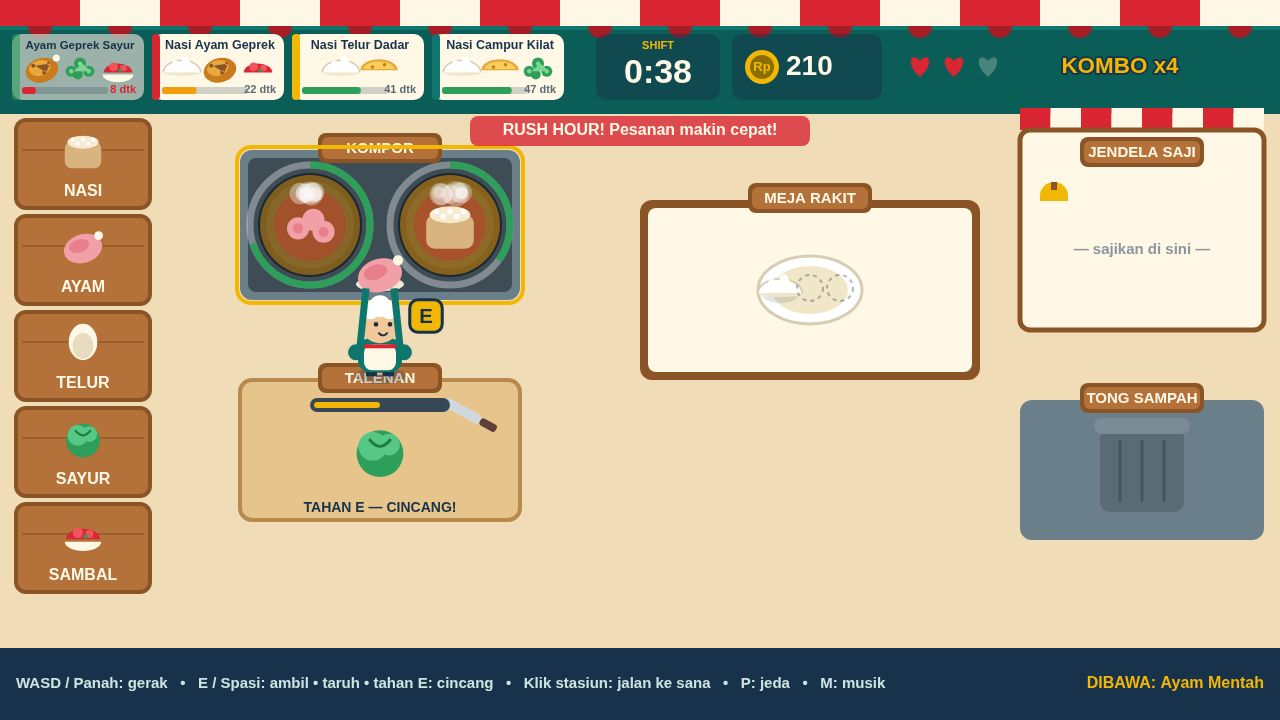
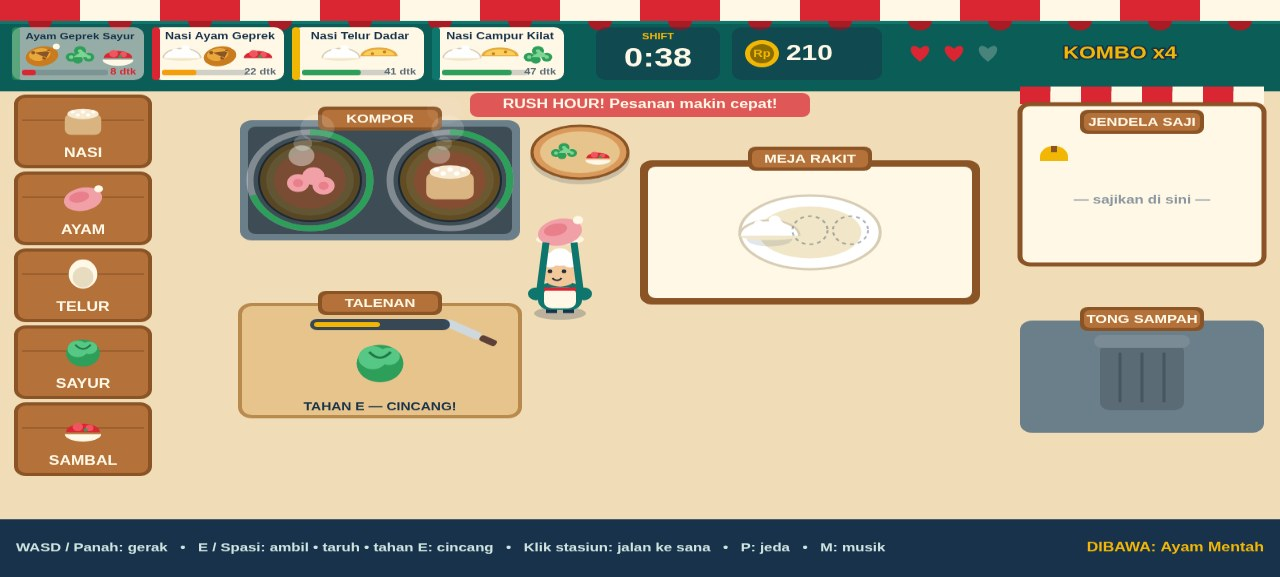
Dapur Kilat v2 — cover/rush polish

diff --git a/game/src/render.js b/game/src/render.js
@@ -209,6 +209,13 @@ function drawStove(ctx, state, nearId, t) {
   ctx.fillStyle = '#3d4c55';
   rr(ctx, s.x + 8, s.y + 8, s.w - 16, s.h - 16, 8);
   ctx.fill();
+  // highlight BEFORE the sign, so its top edge never strikes through the label
+  if (near) {
+    ctx.strokeStyle = '#f2b705';
+    ctx.lineWidth = 4;
+    rr(ctx, s.x - 3, s.y - 3, s.w + 6, s.h + 6, 14);
+    ctx.stroke();
+  }
   drawStationSign(ctx, s.x + s.w / 2, s.y - 2, 'KOMPOR');
   state.burners.forEach((b, i) => {
     const burner = s.burners[i];
@@ -241,12 +248,6 @@ function drawStove(ctx, state, nearId, t) {
       textOutline(ctx, 'HANGUS!', burner.x, burner.y - burner.r - 16, 15, '#ff6b6b', '#17324a');
     }
   });
-  if (near) {
-    ctx.strokeStyle = '#f2b705';
-    ctx.lineWidth = 4;
-    rr(ctx, s.x - 3, s.y - 3, s.w + 6, s.h + 6, 14);
-    ctx.stroke();
-  }
 }
 
 function drawBoard(ctx, state, nearId, t) {
@@ -259,6 +260,13 @@ function drawBoard(ctx, state, nearId, t) {
   ctx.lineWidth = 4;
   rr(ctx, b.x, b.y, b.w, b.h, 12);
   ctx.stroke();
+  // highlight BEFORE the sign, so its top edge never strikes through the label
+  if (near) {
+    ctx.strokeStyle = '#f2b705';
+    ctx.lineWidth = 4;
+    rr(ctx, b.x - 3, b.y - 3, b.w + 6, b.h + 6, 14);
+    ctx.stroke();
+  }
   drawStationSign(ctx, b.x + b.w / 2, b.y - 2, 'TALENAN');
   // knife
   ctx.save();
@@ -283,12 +291,6 @@ function drawBoard(ctx, state, nearId, t) {
     text(ctx, 'TAHAN E — CINCANG!', b.cx, b.cy + 58, 14, '#17324a');
   } else if (state.board.state === 'done') {
     textOutline(ctx, 'SIAP DIAMBIL!', b.cx, b.cy + 58, 14, '#7ed491', '#17324a');
-  }
-  if (near) {
-    ctx.strokeStyle = '#f2b705';
-    ctx.lineWidth = 4;
-    rr(ctx, b.x - 3, b.y - 3, b.w + 6, b.h + 6, 14);
-    ctx.stroke();
   }
 }
 
@@ -324,21 +326,23 @@ function drawAssembly(ctx, state, nearId, t) {
   ctx.fillStyle = PALETTE.cream;
   rr(ctx, a.x + 8, a.y + 8, a.w - 16, a.h - 16, 8);
   ctx.fill();
-  drawStationSign(ctx, a.x + a.w / 2, a.y - 2, 'MEJA RAKIT');
-  drawPlate(ctx, a.plateX, a.plateY, state.plate, 1);
-  const complete = plateCompletesRecipe(state.plate);
-  if (complete) {
-    const pulse = 0.6 + 0.4 * Math.sin(t * 5);
-    ctx.strokeStyle = 'rgba(46,158,91,' + pulse + ')';
-    ctx.lineWidth = 5;
-    ctx.beginPath(); ctx.ellipse(a.plateX, a.plateY, 62, 42, 0, 0, Math.PI * 2); ctx.stroke();
-    textOutline(ctx, 'SIAP DISAJIKAN!', a.plateX, a.plateY + 58, 16, '#2e9e5b', '#fff8e7');
-  }
+  // highlight BEFORE the sign, so its top edge never strikes through the label
   if (near) {
     ctx.strokeStyle = '#f2b705';
     ctx.lineWidth = 4;
     rr(ctx, a.x - 3, a.y - 3, a.w + 6, a.h + 6, 14);
     ctx.stroke();
+  }
+  drawStationSign(ctx, a.x + a.w / 2, a.y - 2, 'MEJA RAKIT');
+  // bigger plate (1.35x) so the mid-assembly dish reads clearly as the hero
+  drawPlate(ctx, a.plateX, a.plateY, state.plate, 1.35);
+  const complete = plateCompletesRecipe(state.plate);
+  if (complete) {
+    const pulse = 0.6 + 0.4 * Math.sin(t * 5);
+    ctx.strokeStyle = 'rgba(46,158,91,' + pulse + ')';
+    ctx.lineWidth = 5;
+    ctx.beginPath(); ctx.ellipse(a.plateX, a.plateY, 84, 57, 0, 0, Math.PI * 2); ctx.stroke();
+    textOutline(ctx, 'SIAP DISAJIKAN!', a.plateX, a.plateY + 66, 16, '#2e9e5b', '#fff8e7');
   }
 }
 
@@ -357,6 +361,13 @@ function drawWindow(ctx, state, nearId, t) {
   ctx.lineWidth = 5;
   rr(ctx, w.x, w.y, w.w, w.h, 10);
   ctx.stroke();
+  // highlight BEFORE the sign, so its top edge never strikes through the label
+  if (near) {
+    ctx.strokeStyle = '#f2b705';
+    ctx.lineWidth = 4;
+    rr(ctx, w.x - 3, w.y - 3, w.w + 6, w.h + 6, 12);
+    ctx.stroke();
+  }
   drawStationSign(ctx, w.x + w.w / 2, w.y + 22, 'JENDELA SAJI');
   // service bell
   ctx.fillStyle = '#f2b705';
@@ -374,12 +385,6 @@ function drawWindow(ctx, state, nearId, t) {
   } else {
     text(ctx, '— sajikan di sini —', w.plateX, w.plateY, 15, '#8a97a0');
   }
-  if (near) {
-    ctx.strokeStyle = '#f2b705';
-    ctx.lineWidth = 4;
-    rr(ctx, w.x - 3, w.y - 3, w.w + 6, w.h + 6, 12);
-    ctx.stroke();
-  }
 }
 
 function drawTrash(ctx, state, nearId) {
@@ -388,6 +393,13 @@ function drawTrash(ctx, state, nearId) {
   ctx.fillStyle = PALETTE.steelDark;
   rr(ctx, tr.x, tr.y, tr.w, tr.h, 12);
   ctx.fill();
+  // highlight BEFORE the sign, so its top edge never strikes through the label
+  if (near) {
+    ctx.strokeStyle = '#f2b705';
+    ctx.lineWidth = 4;
+    rr(ctx, tr.x - 3, tr.y - 3, tr.w + 6, tr.h + 6, 14);
+    ctx.stroke();
+  }
   drawStationSign(ctx, tr.x + tr.w / 2, tr.y - 2, 'TONG SAMPAH');
   // bin
   ctx.fillStyle = '#5b6b76';
@@ -401,12 +413,29 @@ function drawTrash(ctx, state, nearId) {
   for (let i = -1; i <= 1; i++) {
     ctx.beginPath(); ctx.moveTo(tr.cx + i * 22, tr.cy - 30); ctx.lineTo(tr.cx + i * 22, tr.cy + 32); ctx.stroke();
   }
-  if (near) {
-    ctx.strokeStyle = '#f2b705';
-    ctx.lineWidth = 4;
-    rr(ctx, tr.x - 3, tr.y - 3, tr.w + 6, tr.h + 6, 14);
-    ctx.stroke();
-  }
+}
+
+// ---------- prep board: fills the bare strip between stove and assembly ----------
+// A small round wooden board with chopped veg + a bowl of sambal, sitting on the
+// floor in the gap (x 520..640). Decor only — the chef walks past it, never on it
+// in the staged shots; drawn under the chef like any floor prop.
+function drawPrepBoard(ctx) {
+  const cx = 580;
+  const cy = 190;
+  // soft shadow so it sits on the floor
+  ctx.fillStyle = 'rgba(23,50,74,0.18)';
+  ctx.beginPath(); ctx.ellipse(cx, cy + 6, 50, 34, 0, 0, Math.PI * 2); ctx.fill();
+  // round wooden board
+  ctx.fillStyle = '#d99a5b';
+  ctx.beginPath(); ctx.ellipse(cx, cy, 48, 33, 0, 0, Math.PI * 2); ctx.fill();
+  ctx.strokeStyle = '#8a5426';
+  ctx.lineWidth = 3;
+  ctx.beginPath(); ctx.ellipse(cx, cy, 48, 33, 0, 0, Math.PI * 2); ctx.stroke();
+  ctx.fillStyle = '#e8c48d';
+  ctx.beginPath(); ctx.ellipse(cx, cy, 40, 26, 0, 0, Math.PI * 2); ctx.fill();
+  // chopped veg on the left half, small bowl of sambal on the right
+  drawFood(ctx, 'sayur-potong', cx - 16, cy - 2, 20);
+  drawFood(ctx, 'sambal', cx + 18, cy + 4, 18);
 }
 
 // ---------- chef ----------
@@ -720,6 +749,7 @@ export function drawFrame(ctx, state, t) {
   ctx.fillStyle = PALETTE.wall;
   ctx.fillRect(0, 0, CANVAS_W, CANVAS_H);
   drawFloor(ctx);
+  drawPrepBoard(ctx);
   const near = state.screen === 'playing' ? nearestStation(state) : null;
   const nearId = near ? near.id : null;
   drawCrates(ctx, state, nearId, t);

diff --git a/game/src/shots.js b/game/src/shots.js
@@ -72,11 +72,13 @@ export function applyShot(state, shot) {
     ];
     state.plate = ['nasi-matang'];
     state.windowPlate = null;
-    state.chef.x = 380;
-    state.chef.y = 350;
-    state.chef.tx = 380;
-    state.chef.ty = 350;
-    state.chef.dir = 1;
+    // chef in the open gap right of the stove, facing it: the carried chicken
+    // no longer overlaps the stove body, and no station label is hidden.
+    state.chef.x = 560;
+    state.chef.y = 365;
+    state.chef.tx = 560;
+    state.chef.ty = 365;
+    state.chef.dir = -1;
     state.carried = 'ayam-mentah';
     state.burners[0] = { item: 'ayam-potong', progress: 0.7, state: 'cooking', cookTime: 5, burnT: 0 };
     state.burners[1] = { item: 'nasi-mentah', progress: 0.35, state: 'cooking', cookTime: 6, burnT: 0 };
